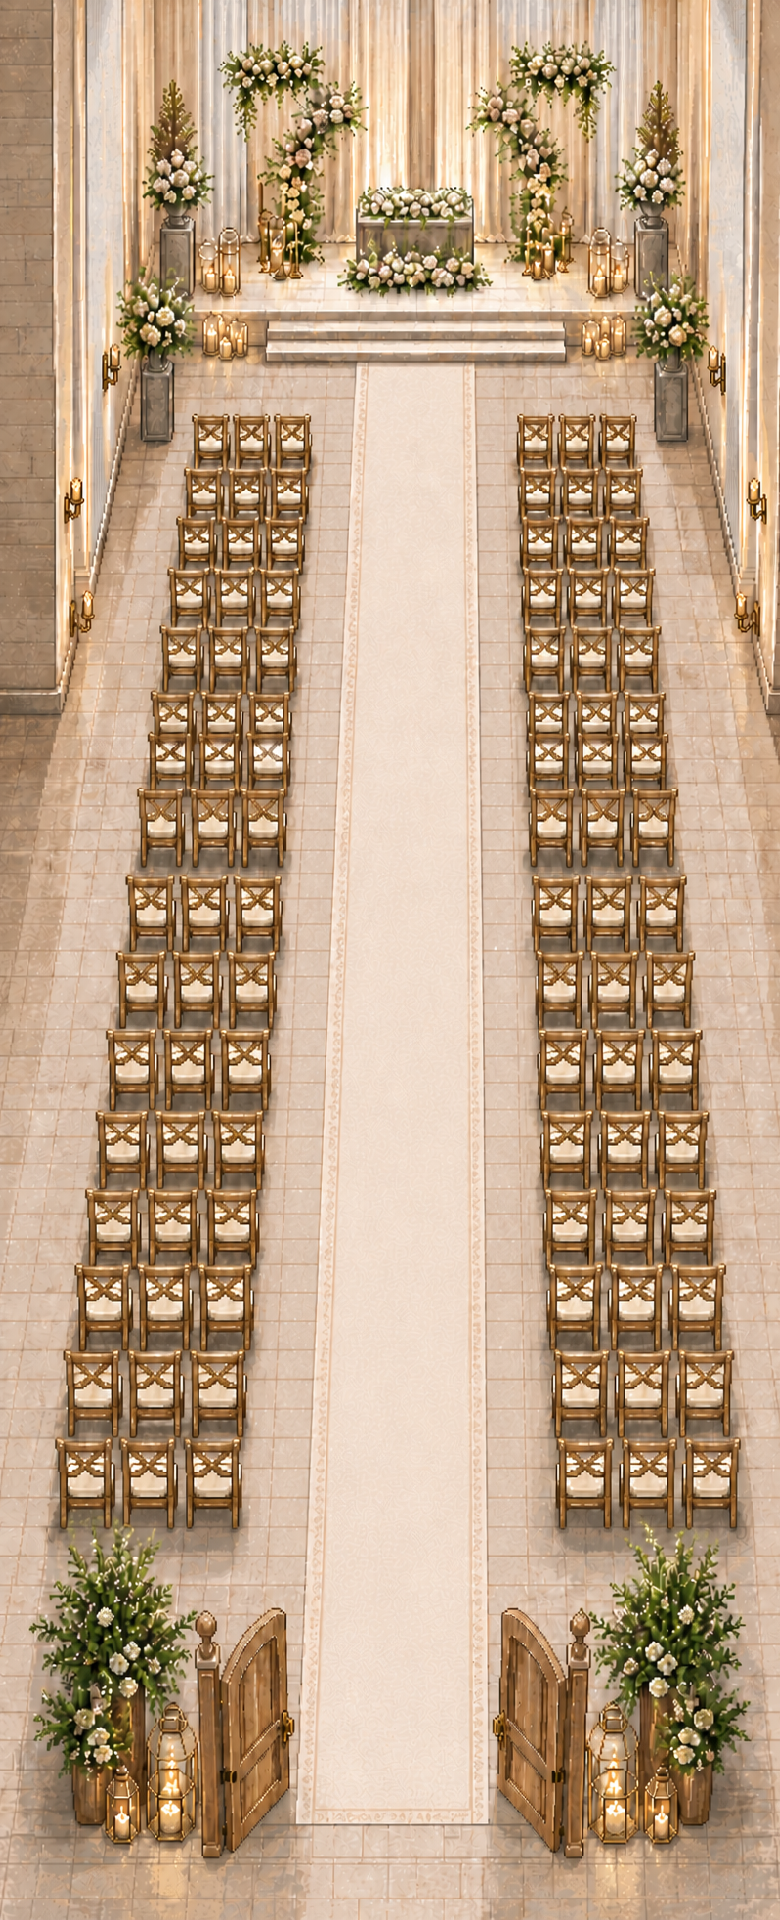
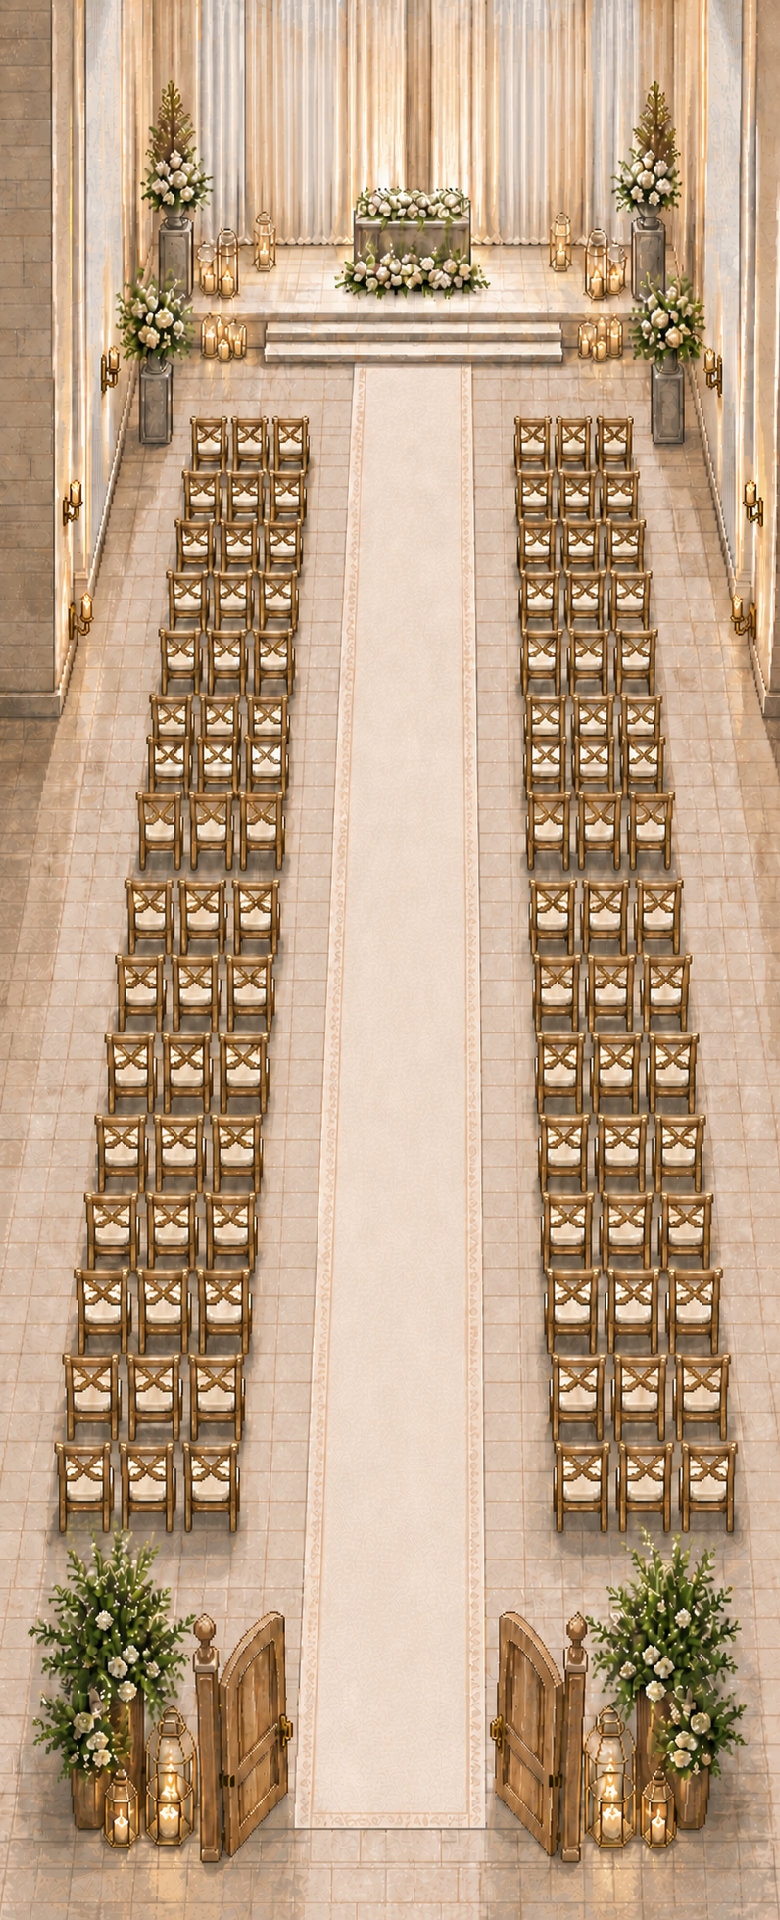
fix: separate ceremony hall arch foreground

diff --git a/client/src/game/world.test.ts b/client/src/game/world.test.ts
@@ -805,6 +805,17 @@ describe("guest route world", () => {
       expect.objectContaining({ x: 240, y: 960, width: 60, height: 90, asset: "aisle-bouquet-front.png", depthY: 1050 }),
       expect.objectContaining({ x: 480, y: 1200, width: 60, height: 90, asset: "aisle-bouquet-front.png", depthY: 1290 })
     ]);
+    expect(hall.decorations.find((item) => item.id === "hall-ceremony-arch")).toEqual(
+      expect.objectContaining({
+        kind: "flower-arch",
+        x: 180,
+        y: 30,
+        width: 420,
+        height: 300,
+        asset: "ceremony-arch-front.png",
+        depthY: 330
+      })
+    );
   });
 
   it("defines the banquet between lobby and restroom with complete table depths", () => {

diff --git a/client/src/components/GameWorld.test.tsx b/client/src/components/GameWorld.test.tsx
@@ -721,6 +721,7 @@ describe("GameWorld", () => {
 
     const hall = screen.getByLabelText("예식홀 지도");
     const bouquets = [...container.querySelectorAll('img[data-decoration="aisle-bouquet"]')];
+    const ceremonyArch = container.querySelector('img[data-decoration-label="예식홀 꽃 아치"]');
 
     expect(hall).toHaveStyle({
       width: "780px",
@@ -733,6 +734,14 @@ describe("GameWorld", () => {
       .toHaveStyle({ left: "330px", top: "255px", zIndex: "1255" });
     expect(screen.getByRole("button", { name: "신부 김하린 소개 보기" }).parentElement)
       .toHaveStyle({ left: "450px", top: "255px", zIndex: "1255" });
+    expect(ceremonyArch).toHaveAttribute("src", "/assets/maps/v2/ceremony-hall/ceremony-arch-front.png");
+    expect(ceremonyArch).toHaveStyle({
+      left: "180px",
+      top: "30px",
+      width: "420px",
+      height: "300px",
+      zIndex: "1330"
+    });
     expect(bouquets).toHaveLength(4);
     [
       ["240px", "480px", "1570"],

diff --git a/client/src/game/world.ts b/client/src/game/world.ts
@@ -486,6 +486,10 @@ const ceremonyHallZone = createZone({
     portal("hall-to-lobby", "로비로 돌아가기", "lobby", { x: 330, y: 1830, width: 120, height: 60 }, { x: 375, y: 1815 }, "down", { x: 525, y: 135 })
   ],
   decorations: [
+    decoration("hall-ceremony-arch", "flower-arch", "예식홀 꽃 아치", 180, 30, 420, 300, {
+      asset: "ceremony-arch-front.png",
+      depthY: 330
+    }),
     decoration("hall-altar", "altar", "웨딩 단상", 195, 105, 270, 105),
     decoration("hall-seat-l1", "ceremony-seat", "하객 좌석", 45, 360, 150, 120),
     decoration("hall-seat-r1", "ceremony-seat", "하객 좌석", 465, 360, 150, 120),